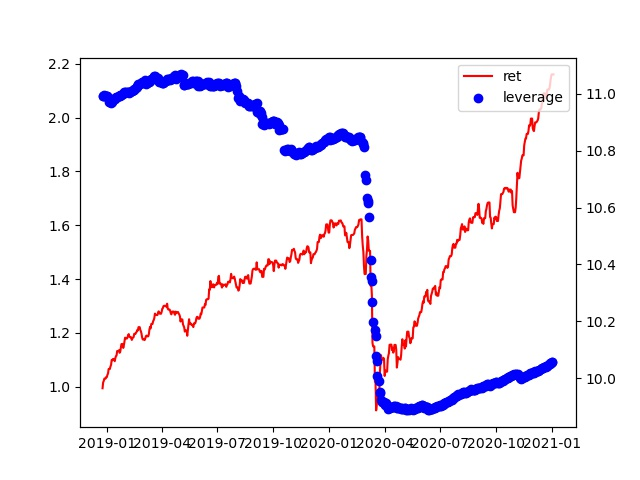
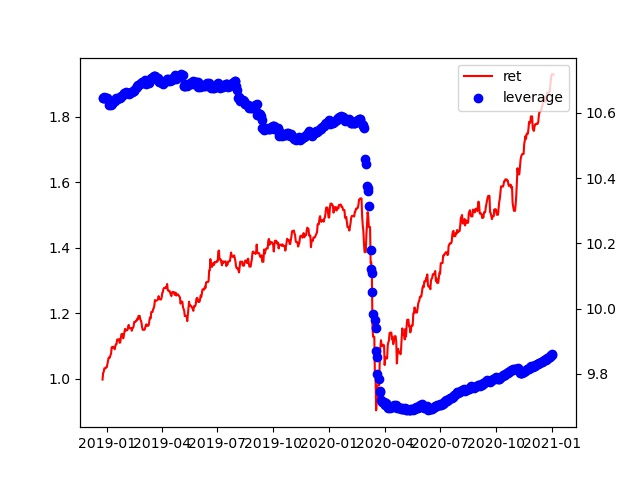
Summarize result

diff --git a/weekly_rebalancing.py b/weekly_rebalancing.py
@@ -1,4 +1,5 @@
 import pandas as pd
+import numpy as np
 from tqdm import tqdm
 import datetime as dt
 import matplotlib.pyplot as plt
@@ -6,7 +7,6 @@ from pandas.tseries.offsets import BMonthBegin
 from RiskParityPrimer import RiskParitySP
 from pathlib import  Path
 tqdm.pandas(desc="Rebalancing")
-
 
 data_folder = '../data/'
 start_date = '2011-12-25'
@@ -18,7 +18,7 @@ TV = 0.1  # Target volatility
 
 def get_next_n_trading_days(date, n=1):
     increment = 0
-    while increment <= n and date.isoweekday() not in [1,2,3,4,5]:
+    while increment <= n and date.isoweekday() not in [1, 2, 3, 4, 5]:
         date += dt.timedelta(days=1)
         if date.isoweekday():
             increment += 1
@@ -28,24 +28,27 @@ def get_next_n_trading_days(date, n=1):
 class Trader(RiskParitySP):
     def __init__(self, TV, start_date, end_date, lag):
         super().__init__(TV, start_date, end_date, lag)
-        self.trading_gap = 1
+        self.trading_gap = 5
         self.start_date = start_date
         self.end_date = end_date
 
-    def trade(self):
-
+    def trade(self, trading_day):
         ret = self.ret[self.start_date:self.end_date]
-        rebalancing_dates = pd.bdate_range(self.start_date, self.end_date)
-        effecetive_dates = rebalancing_dates.to_series().apply(
+        all_dates = pd.bdate_range(self.start_date, self.end_date)
+        all_dates = all_dates.isocalendar()['day']
+        rebalancing_dates = all_dates[all_dates == trading_day].index
+
+        effective_dates = rebalancing_dates.to_series().apply(
             lambda x: get_next_n_trading_days(x, self.lag))
 
         W = rebalancing_dates.to_series().progress_apply(lambda date: self.compute_weight(date, self.trading_gap))
-        W = W.set_index(effecetive_dates)
+
+        W = W.set_index(effective_dates)
         W = pd.DataFrame(index=ret.index).join(W).ffill(axis=0)
 
         daily_ret = ret.multiply(W).sum(axis=1)
         from pathlib import Path
-        daily_ret.to_excel(RESULT_DIR + f"data/{Path(__file__).stem} daily_return.xlsx")
+        daily_ret.to_excel(RESULT_DIR + f"data/{Path(__file__).stem}_{trading_day} daily_return.xlsx")
         cum_ret = (1 + daily_ret).cumprod()
         cum_ret.name = 'replicated'
         return cum_ret
@@ -53,16 +56,19 @@ class Trader(RiskParitySP):
 
 if __name__ == '__main__':
     trader = Trader(TV, start_date, end_date, lag)
-    replicated_ret = trader.trade()
-
+    trading_day = 5  # Monday
+    # print(trader.compute_weight('2021-1-6', 5))
+    replicated_ret = trader.trade(trading_day)
+    # replicated_ret_cumulative = (1 + replicated_ret).cumprod()
 
     # fig, ax_left = plt.subplots()
     # ax_right = ax_left.twinx()
     # ax_left.plot(replicated_ret, label='ret', color='r')
     # ax_right.scatter(trader.leverage.index, trader.leverage.values, label='leverage', color='b')
-    # fig.legend(loc='upper right', bbox_to_anchor=(1,1), bbox_transform=ax_left.transAxes)
+    # fig.legend(loc='upper right', bbox_to_anchor=(1, 1), bbox_transform=ax_left.transAxes)
     # plt.savefig(RESULT_DIR + f'img/{Path(__file__).stem} leverage.jpg')
-    # actual_curve = pd.read_excel(data_folder + 'PerformanceGraphExport.xls', index_col=0)
-    # actual_curve = (actual_curve.pct_change() + 1).cumprod()
-    # df = pd.concat([replicated_ret, actual_curve], axis=1)
-    # df.plot().legend(loc='upper left')
+
+    actual_curve = pd.read_excel(data_folder + 'PerformanceGraphExport.xls', index_col=0)
+    actual_curve = (actual_curve.pct_change() + 1).cumprod()
+    df = pd.concat([replicated_ret, actual_curve], axis=1)
+    df.plot().legend(loc='upper left')

diff --git a/data_loader.py b/data_loader.py
@@ -6,9 +6,15 @@ pd.set_option('display.max_columns', 5)
 pd.set_option('display.max_rows', 60)
 
 
+
+
 class Dataloader:
     def __init__(self):
         self.data_dir = '../data/Asset/'
+        self.asset_specs = pd.read_csv('../data/asset_spec.csv', index_col='Asset number')
+
+        self.asset_pool = self.asset_specs[self.asset_specs['Illiquid'] == 0].index
+        print(self.asset_pool)
 
     def create_xarray(self):
 
@@ -25,6 +31,8 @@ class Dataloader:
             if asset_ix > 137:
                 continue
 
+            if asset_ix not in self.asset_pool:
+                continue
             columns.append(asset_ix)
 
             cur_df = pd.read_csv(self.data_dir + csv_file,
@@ -48,7 +56,7 @@ class Dataloader:
 
             cur_df['adjusted fx'] = cur_df[['Fx', 'FxBase']].apply(lambda x: adjust_fx(*x), axis=1)
             cur_df['adjusted fx ret'] = cur_df['adjusted fx'].pct_change(fill_method='ffill')
-            cur_df['ret'] = cur_df['%change'] * (1 + cur_df['adjusted fx ret']) /100
+            cur_df['ret'] = cur_df['%change'] * (1 + cur_df['adjusted fx ret']) / 100
 
             if not len(time_index):
                 "Name	Cur	Year	Month	Day	%change	Vol	Px	Fx	FxBase"

diff --git a/RiskParityPrimer.py b/RiskParityPrimer.py
@@ -2,14 +2,14 @@ import numpy as np
 import pandas as pd
 import datetime as dt
 
-
-
 data_folder = '../data/'
 data_dir = '../data/consolidated_table_wo_features_SP'
 asset_spec_dir = '../data/asset_spec.csv'
 RESULT_DIR = './result/'
 minN = 1260
 maxN = 3780
+asset_spec = pd.read_csv(asset_spec_dir, index_col='Asset number')
+asset_pool = asset_spec[asset_spec['Illiquid'] == 0].index
 
 
 def get_next_n_trading_days(date, n=1):
@@ -26,7 +26,7 @@ class RiskParitySP:
         # load data
         self.df = pd.read_pickle(data_dir)
 
-        self.asset_specs = pd.read_csv(asset_spec_dir, index_col='Asset number')
+        self.asset_specs = pd.read_csv(asset_spec_dir, index_col='Asset number').loc[asset_pool]
         self.indicator = self.asset_specs[['Comm indicator', 'Equity indicator', 'Bond indicator']]
 
         self.commodity_class = (self.asset_specs['Comm indicator'] == 1).index
@@ -110,7 +110,3 @@ class RiskParitySP:
         self.N = min(maxN, self.N + rebalancing_gap)
 
         return raw_w
-
-
-
-

diff --git a/monthly_rebalancing.py b/monthly_rebalancing.py
@@ -9,7 +9,7 @@ from RiskParityPrimer import RiskParitySP
 tqdm.pandas(desc="Rebalancing")
 
 data_folder = '../data/'
-start_date = '2018-12-25'
+start_date = '2011-12-25'
 end_date = '2023-1-3'
 lag = 2
 RESULT_DIR = './result/'

diff --git a/README.md b/README.md
@@ -8,9 +8,9 @@ S&P Risk Parity Index.
 # Correlation table
 |                                 | HCM Risk Parity Index | S&P Risk Parity Index | Equal Weighting |
 |:--------------------------------|----------------------:|----------------------:|----------------:|
-| HCM Risk Parity Index           |                     1 |                  0.94 |            0.88 |
-| S&P Risk Parity Index           |                  0.94 |                     1 |            0.85 |
-| Equal Weighting                 |                  0.88 |                  0.85 |               1 |
+| HCM Risk Parity Index           |                     1 |                  0.95 |             0.9 |
+| S&P Risk Parity Index           |                  0.95 |                     1 |            0.88 |
+| Equal Weighting                 |                   0.9 |                  0.88 |               1 |
 |                            
 # Performance Metrics
 ### Monthly Rebalancing
@@ -19,126 +19,126 @@ S&P Risk Parity Index.
 Start                        2012-01-02 00:00:00
 End                          2022-01-03 00:00:00
 Duration                      3654 days 00:00:00
-Return (Ann.) [%]                      13.155015
-Volatility (Ann.) [%]                  12.505835
-Information Ratio                        1.05191
-Final AUM [unitless]                    3.635543
-AUM Peak [$]                            3.652543
-Final Return [%]                      263.554264
-Max. Drawdown [%]                      -21.75385
-Max. Drawdown Duration         488 days 00:00:00
-Avg. Drawdown Duration         143 days 21:20:00
-Max. Underwater Duration       464 days 00:00:00
-Total Underwater Duration     2603 days 00:00:00
+Return (Ann.) [%]                      11.346089
+Volatility (Ann.) [%]                  12.640215
+Information Ratio                       0.897618
+Final AUM [unitless]                    3.065772
+AUM Peak [$]                             3.08359
+Final Return [%]                      206.577202
+Max. Drawdown [%]                     -20.978841
+Max. Drawdown Duration         427 days 00:00:00
+Avg. Drawdown Duration         146 days 00:00:00
+Max. Underwater Duration       463 days 00:00:00
+Total Underwater Duration     2598 days 00:00:00
 ```
 ![](result/img/monthly_rebalancing leverage.jpg)
 
 ### Daily Rebalancing
 ```plaintext
 Start                        2011-12-26 00:00:00
-End                          2022-01-03 00:00:00
-Duration                      3661 days 00:00:00
-Return (Ann.) [%]                      13.286219
-Volatility (Ann.) [%]                  12.415014
-Information Ratio                       1.070173
-Final AUM [unitless]                    3.689003
-AUM Peak [$]                            3.706223
-Final Return [%]                      263.840078
-Max. Drawdown [%]                     -21.559265
-Max. Drawdown Duration         488 days 00:00:00
-Avg. Drawdown Duration         143 days 21:20:00
-Max. Underwater Duration       464 days 00:00:00
-Total Underwater Duration     2606 days 00:00:00
+End                          2020-12-31 00:00:00
+Duration                      3293 days 00:00:00
+Return (Ann.) [%]                      10.333664
+Volatility (Ann.) [%]                  12.473446
+Information Ratio                       0.828453
+Final AUM [unitless]                    2.520319
+AUM Peak [$]                            2.520319
+Final Return [%]                      148.514576
+Max. Drawdown [%]                     -20.779154
+Max. Drawdown Duration         427 days 00:00:00
+Avg. Drawdown Duration         149 days 01:20:00
+Max. Underwater Duration       202 days 00:00:00
+Total Underwater Duration     2341 days 00:00:00
 ```
 ![](result/img/daily_rebalancing leverage.jpg)
 ### Weekly Rebalancing
 ![](result/img/weekly_rebalancing leverage.jpg)
 #### Monday
 ```plaintext
-Start                        2012-01-02 00:00:00
-End                          2022-01-03 00:00:00
-Duration                      3654 days 00:00:00
-Return (Ann.) [%]                      13.153161
-Volatility (Ann.) [%]                  12.443584
-Information Ratio                       1.057023
-Final AUM [unitless]                     3.63492
-AUM Peak [$]                            3.651888
-Final Return [%]                      263.492044
-Max. Drawdown [%]                     -21.578937
-Max. Drawdown Duration         488 days 00:00:00
-Avg. Drawdown Duration         143 days 21:20:00
-Max. Underwater Duration       464 days 00:00:00
-Total Underwater Duration     2603 days 00:00:00
+Start                        2011-12-26 00:00:00
+End                          2020-12-31 00:00:00
+Duration                      3293 days 00:00:00
+Return (Ann.) [%]                      10.324994
+Volatility (Ann.) [%]                  12.498489
+Information Ratio                       0.826099
+Final AUM [unitless]                    2.518458
+AUM Peak [$]                            2.518458
+Final Return [%]                      148.333126
+Max. Drawdown [%]                     -20.799757
+Max. Drawdown Duration         427 days 00:00:00
+Avg. Drawdown Duration         149 days 01:20:00
+Max. Underwater Duration       202 days 00:00:00
+Total Underwater Duration     2341 days 00:00:00
 ```
 
 #### Tuesday
 ```plaintext
-Start                        2012-01-03 00:00:00
-End                          2022-01-03 00:00:00
-Duration                      3653 days 00:00:00
-Return (Ann.) [%]                      13.124885
-Volatility (Ann.) [%]                  12.454651
-Information Ratio                       1.053814
-Final AUM [unitless]                    3.623657
-AUM Peak [$]                            3.640601
-Final Return [%]                      262.365694
-Max. Drawdown [%]                      -21.85667
-Max. Drawdown Duration         488 days 00:00:00
-Avg. Drawdown Duration         143 days 21:20:00
-Max. Underwater Duration       464 days 00:00:00
-Total Underwater Duration     2603 days 00:00:00
+Start                        2011-12-27 00:00:00
+End                          2020-12-31 00:00:00
+Duration                      3292 days 00:00:00
+Return (Ann.) [%]                      10.303405
+Volatility (Ann.) [%]                    12.5073
+Information Ratio                       0.823791
+Final AUM [unitless]                    2.512844
+AUM Peak [$]                            2.512844
+Final Return [%]                      147.885631
+Max. Drawdown [%]                     -21.061776
+Max. Drawdown Duration         427 days 00:00:00
+Avg. Drawdown Duration         147 days 08:00:00
+Max. Underwater Duration       202 days 00:00:00
+Total Underwater Duration     2341 days 00:00:00
 ```
 
 #### Wednesday
 ```plaintext
-Start                        2012-01-04 00:00:00
-End                          2022-01-03 00:00:00
-Duration                      3652 days 00:00:00
-Return (Ann.) [%]                      13.006569
-Volatility (Ann.) [%]                  12.452216
-Information Ratio                       1.044518
-Final AUM [unitless]                    3.582532
-AUM Peak [$]                            3.599283
-Final Return [%]                      258.253232
-Max. Drawdown [%]                     -21.732728
-Max. Drawdown Duration         488 days 00:00:00
-Avg. Drawdown Duration         143 days 21:20:00
-Max. Underwater Duration       464 days 00:00:00
-Total Underwater Duration     2599 days 00:00:00
+Start                        2011-12-28 00:00:00
+End                          2020-12-31 00:00:00
+Duration                      3291 days 00:00:00
+Return (Ann.) [%]                      10.238696
+Volatility (Ann.) [%]                  12.509954
+Information Ratio                       0.818444
+Final AUM [unitless]                    2.498052
+AUM Peak [$]                            2.498052
+Final Return [%]                      148.007361
+Max. Drawdown [%]                     -20.926296
+Max. Drawdown Duration         427 days 00:00:00
+Avg. Drawdown Duration         147 days 08:00:00
+Max. Underwater Duration       202 days 00:00:00
+Total Underwater Duration     2338 days 00:00:00
 ```
 
 #### Thursday
 ```plaintext
-Start                        2012-01-05 00:00:00
-End                          2022-01-03 00:00:00
-Duration                      3651 days 00:00:00
-Return (Ann.) [%]                      13.047936
-Volatility (Ann.) [%]                  12.449193
-Information Ratio                       1.048095
-Final AUM [unitless]                    3.594478
-AUM Peak [$]                            3.611288
-Final Return [%]                      259.447796
-Max. Drawdown [%]                      -21.69315
-Max. Drawdown Duration         488 days 00:00:00
-Avg. Drawdown Duration         143 days 21:20:00
-Max. Underwater Duration       464 days 00:00:00
-Total Underwater Duration     2598 days 00:00:00
+Start                        2011-12-29 00:00:00
+End                          2020-12-31 00:00:00
+Duration                      3290 days 00:00:00
+Return (Ann.) [%]                      10.299372
+Volatility (Ann.) [%]                  12.507389
+Information Ratio                       0.823463
+Final AUM [unitless]                    2.510011
+AUM Peak [$]                            2.510011
+Final Return [%]                      148.154999
+Max. Drawdown [%]                     -20.899256
+Max. Drawdown Duration         427 days 00:00:00
+Avg. Drawdown Duration         147 days 08:00:00
+Max. Underwater Duration       202 days 00:00:00
+Total Underwater Duration     2338 days 00:00:00
 ```
 
 #### Friday
 ```plaintext
 Start                        2011-12-30 00:00:00
-End                          2022-01-03 00:00:00
-Duration                      3657 days 00:00:00
-Return (Ann.) [%]                      13.199051
-Volatility (Ann.) [%]                  12.459574
-Information Ratio                        1.05935
-Final AUM [unitless]                    3.652157
-AUM Peak [$]                            3.669235
-Final Return [%]                      262.808968
-Max. Drawdown [%]                     -21.789322
-Max. Drawdown Duration         488 days 00:00:00
-Avg. Drawdown Duration         143 days 21:20:00
-Max. Underwater Duration       464 days 00:00:00
-Total Underwater Duration     2604 days 00:00:00
+End                          2020-12-31 00:00:00
+Duration                      3289 days 00:00:00
+Return (Ann.) [%]                      10.237328
+Volatility (Ann.) [%]                  12.521364
+Information Ratio                       0.817589
+Final AUM [unitless]                    2.495815
+AUM Peak [$]                            2.495815
+Final Return [%]                      147.991486
+Max. Drawdown [%]                     -20.980809
+Max. Drawdown Duration         427 days 00:00:00
+Avg. Drawdown Duration         147 days 08:00:00
+Max. Underwater Duration       202 days 00:00:00
+Total Underwater Duration     2338 days 00:00:00
 ```
